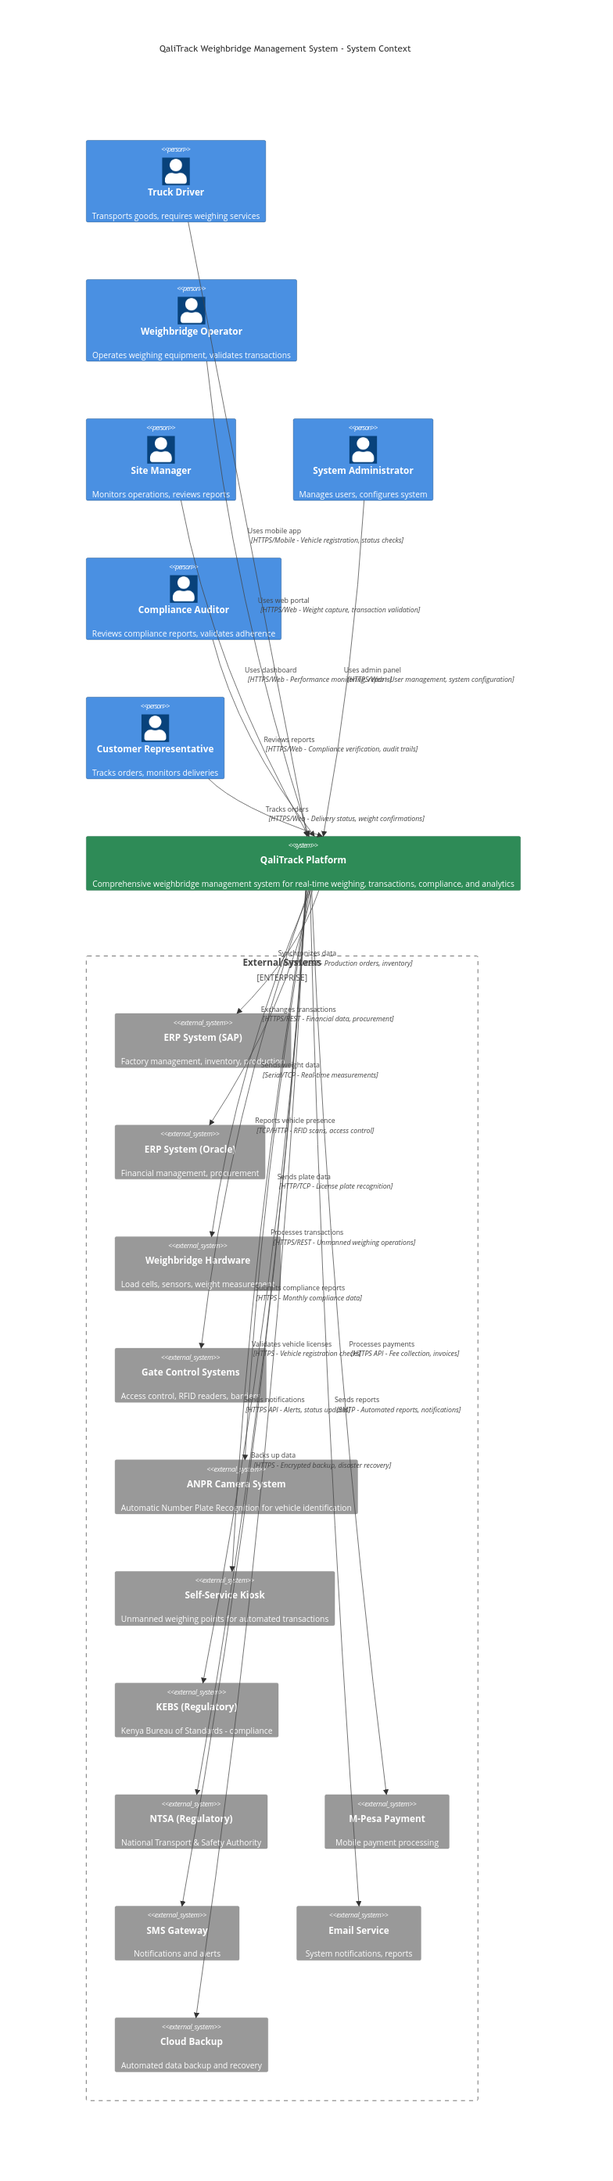
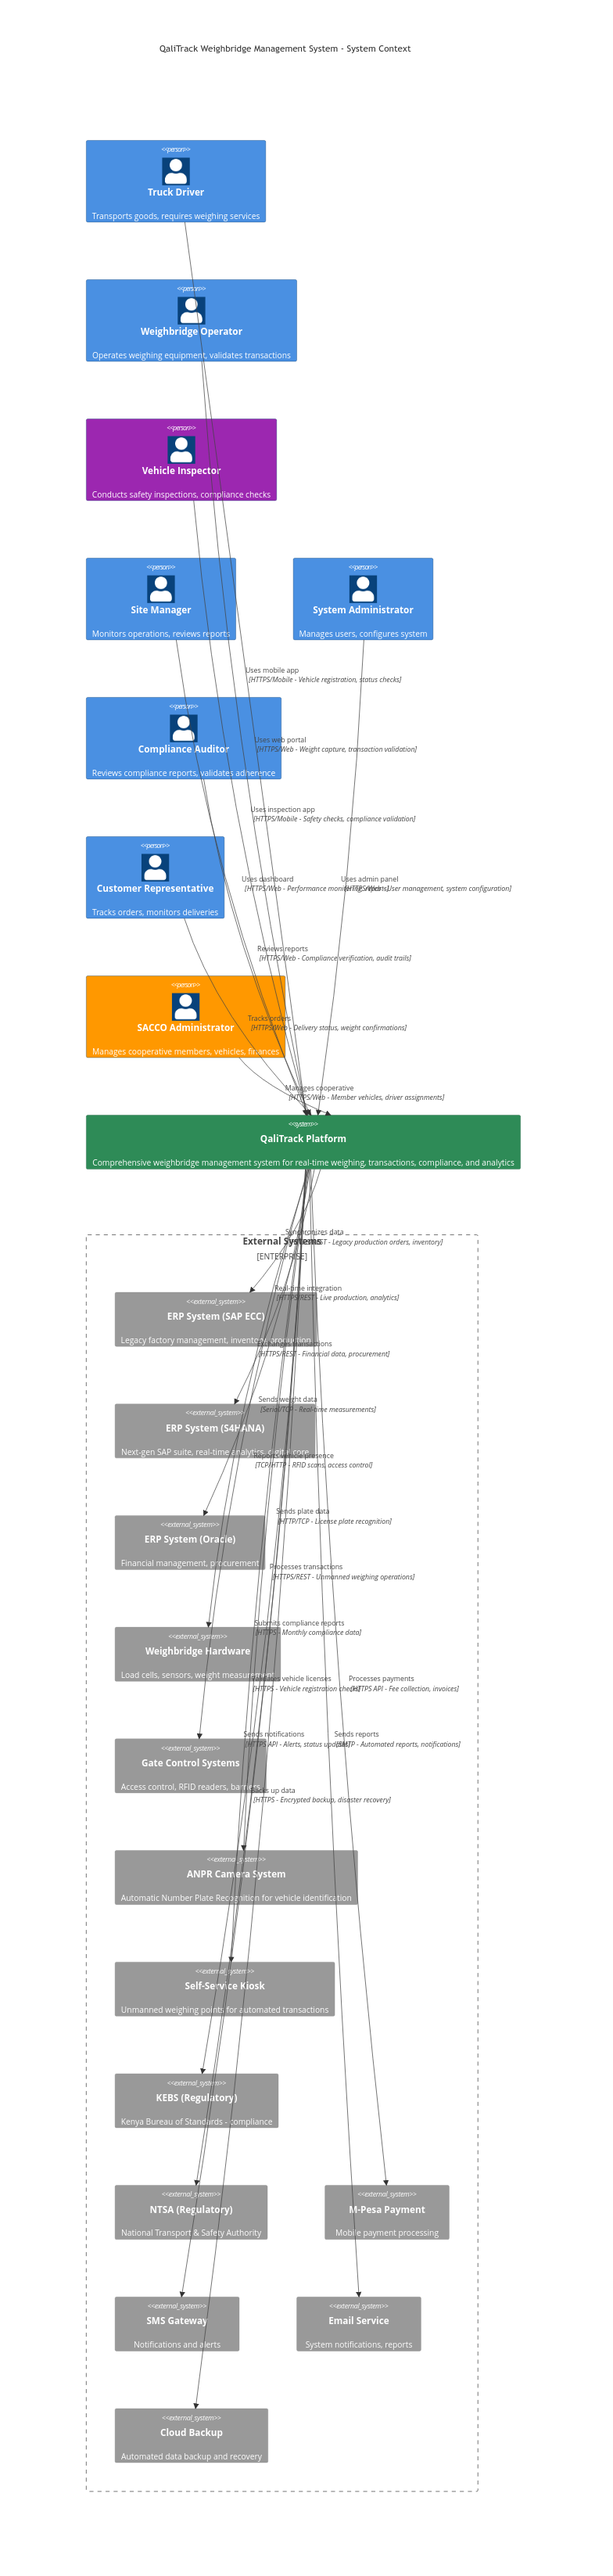
docs(c4): add vehicle inspector role and enhance system context diagrams
- Add Vehicle Inspector as new user persona for safety inspections and compliance checks
- Update both C4Context and Flowchart diagrams with inspector interactions
- Include S4HANA as separate ERP system alongside SAP ECC
- Add SACCO Administrator for cooperative member management
- Remove image links from markdown files per user request
- Configure flowchart PNG generation at 3x size for better presentation quality
- Regenerate PNG assets with updated diagrams

🤖 Generated with [Claude Code](https://claude.ai/code)

Changed region(s): [[0.1224, 0.0, 0.8571, 0.967], [0.4286, 0.0, 0.4592, 0.0312]]

diff --git a/docs/c4/assets/README.md b/docs/c4/assets/README.md
@@ -44,8 +44,4 @@ After conversion, this directory should contain:
 
 ## 🔗 **Usage in Documentation**
 
-Once converted, reference the PNG files in markdown:
-```markdown
-![System Context - C4Format](assets/system-context-c4.png)
-![System Context - Flowchart](assets/system-context-flowchart.png)
-```
+Once converted, the PNG files can be referenced in markdown or used in presentations.

diff --git a/docs/c4/01-system-context.md b/docs/c4/01-system-context.md
@@ -170,10 +170,6 @@ flowchart TB
 
 ### **PNG Exports**
 
-![System Context - C4 Format](assets/system-context-c4.png)
-
-![System Context - Flowchart Format](assets/system-context-flowchart.png)
-
 > **Note**: To generate the PNG files, use the Mermaid CLI or online tools as described in [assets/README.md](assets/README.md)
 
 ## 👥 **System Users & Their Goals**
